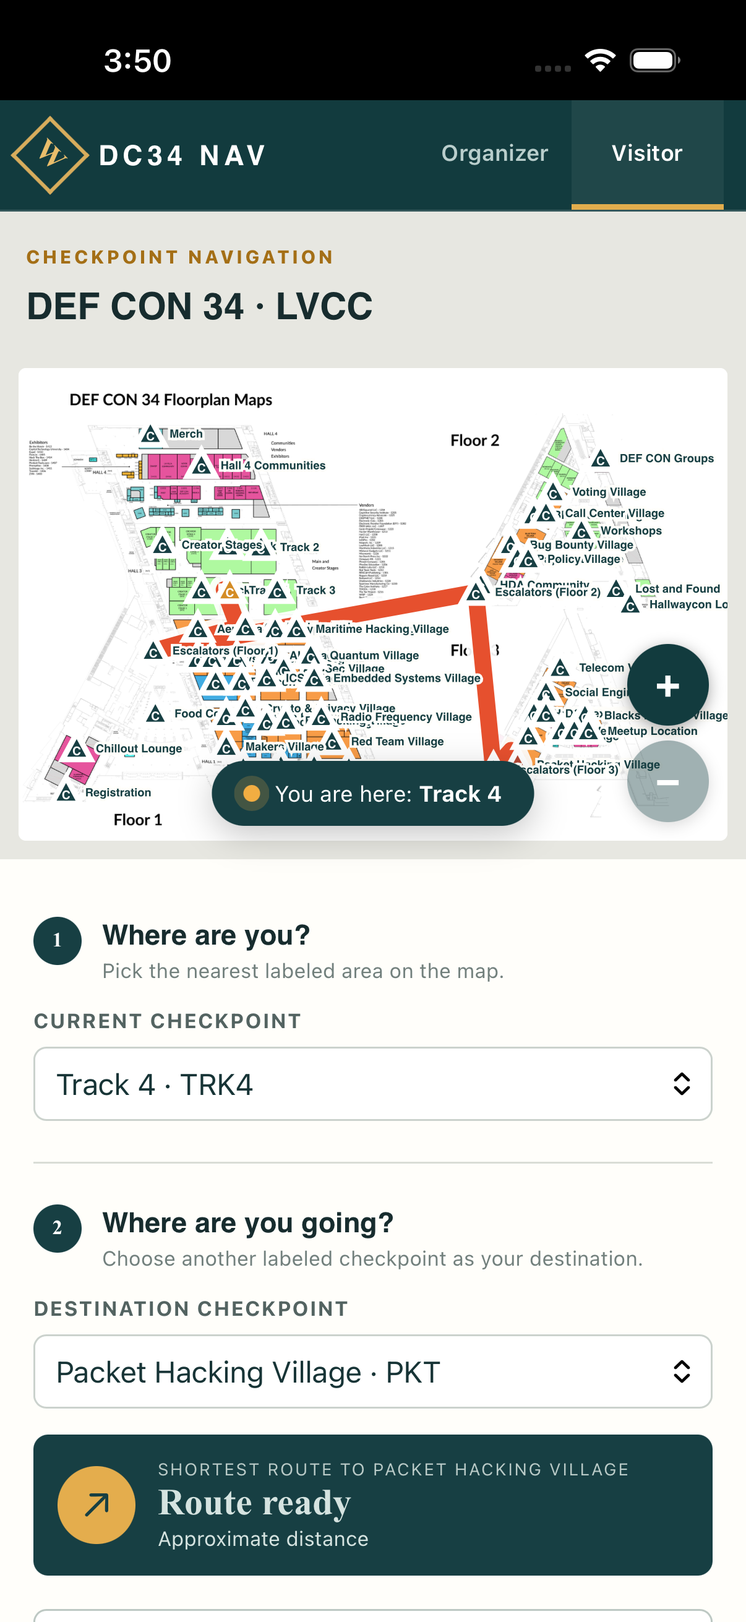
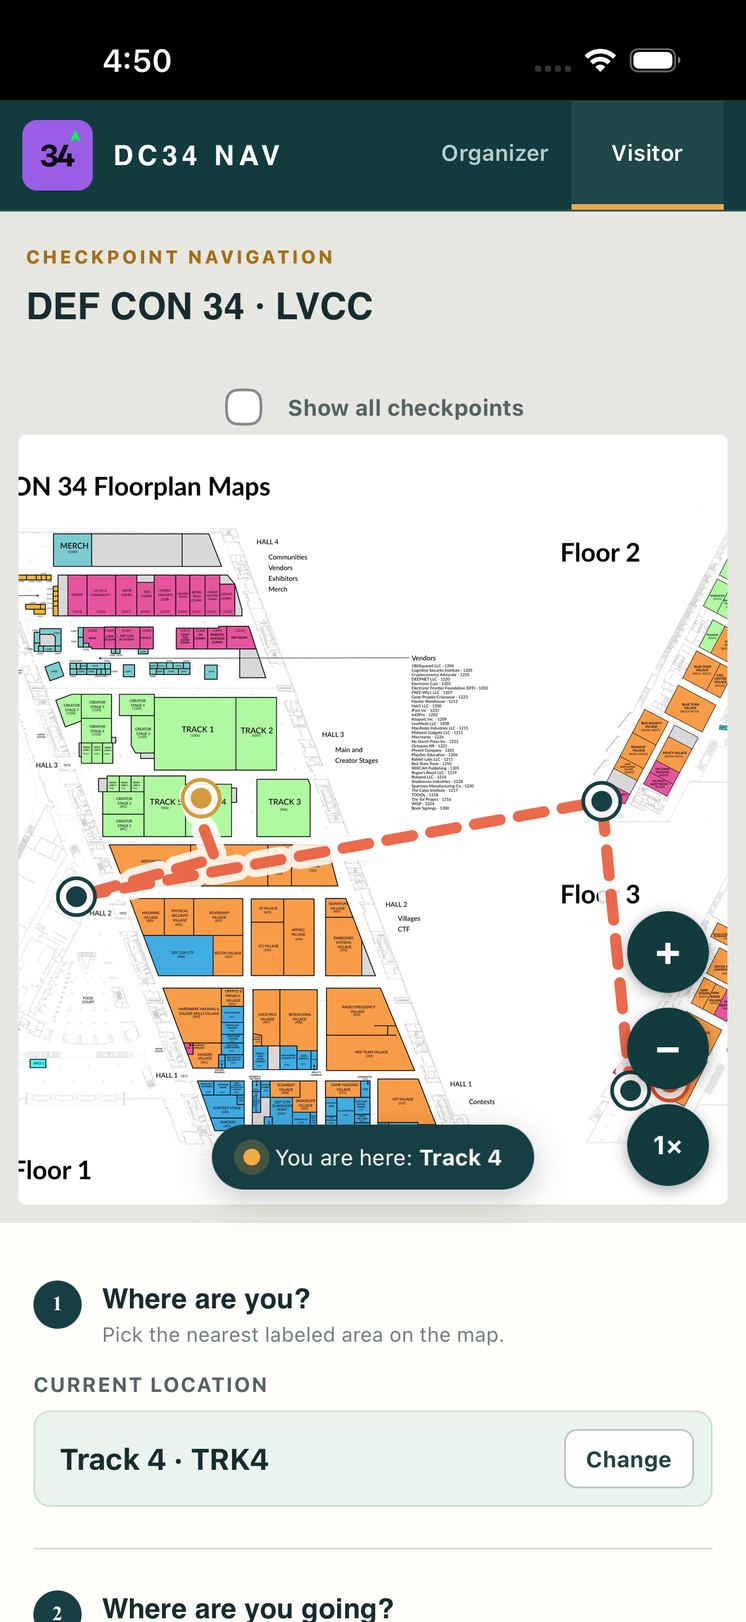
Phase F: clean map UX, aisle-following routes, step-by-step directions
User feedback: checkpoint triangles buried the poster and routes cut
through hall blocks. Visitor map now renders no markers by default —
only dot pins for you/destination/on-route escalators, with a show-all
toggle. 61-item pickers replaced by type-to-filter search. Route
auto-fits the viewport, draws dashed as directional guidance, and the
Floor 1 spine was re-traced from 300dpi poster crops to follow the real
white aisle bands. New src/defcon/directions.ts generates succinct
numbered walking steps (halls to cross, escalator changes); approximate
distance calibration (~0.1 m/px) lights up the minutes estimate.

diff --git a/src/components/Visitor.tsx b/src/components/Visitor.tsx
@@ -1,4 +1,5 @@
 import { lazy, Suspense, useCallback, useEffect, useMemo, useState } from 'react';
+import { buildDirections } from '../defcon/directions';
 import { buildDefconPack } from '../defcon/pack';
 import { createDemoPack } from '../demo';
 import { parseNavPack } from '../lib/navpack';
@@ -13,11 +14,30 @@ const WaypointScanner = lazy(() => import('./WaypointScanner'));
 
 interface Props { initialScannerIntent?: ScannerIntent; onLegacyScannerClose?: () => void }
 
+interface CheckpointOption { id: string; label: string; shortCode: string }
+function CheckpointSearch({ placeholder, options, valueId, disabled, onSelect }: { placeholder: string; options: CheckpointOption[]; valueId?: string; disabled?: boolean; onSelect: (id: string | undefined) => void }) {
+  const [query, setQuery] = useState('');
+  const [open, setOpen] = useState(false);
+  const selected = options.find((option) => option.id === valueId);
+  if (selected && !open) return <div className="cp-selected"><span>{selected.label} · {selected.shortCode}</span><button type="button" className="button" onClick={() => { setQuery(''); setOpen(true); }}>Change</button></div>;
+  const needle = query.trim().toLowerCase();
+  const matches = (needle ? options.filter((option) => `${option.label} ${option.shortCode}`.toLowerCase().includes(needle)) : options).slice(0, 8);
+  return <div className="cp-search">
+    <input type="search" placeholder={placeholder} value={query} disabled={disabled} autoFocus={open} onChange={(event) => setQuery(event.target.value)} onFocus={() => setOpen(true)} />
+    {open || query ? <div className="cp-search-list">
+      {matches.map((option) => <button type="button" key={option.id} onClick={() => { onSelect(option.id); setOpen(false); setQuery(''); }}>{option.label} <small>{option.shortCode}</small></button>)}
+      {matches.length === 0 ? <span className="cp-search-empty">No match — try fewer letters.</span> : null}
+      {selected ? <button type="button" className="cp-search-cancel" onClick={() => { setOpen(false); setQuery(''); }}>Keep {selected.shortCode}</button> : null}
+    </div> : null}
+  </div>;
+}
+
 export function Visitor({ initialScannerIntent, onLegacyScannerClose }: Props) {
   const [state, setState] = useState<VisitorState | null | undefined>(undefined);
   const [message, setMessage] = useState('');
   const [scannerIntent, setScannerIntent] = useState<ScannerIntent | null>(() => initialScannerIntent ?? null);
   const [defconLoading, setDefconLoading] = useState(false);
+  const [showAllCheckpoints, setShowAllCheckpoints] = useState(false);
   useEffect(() => {
     let current = true;
     void loadVisitor().then(async (saved) => {
@@ -56,6 +76,7 @@ export function Visitor({ initialScannerIntent, onLegacyScannerClose }: Props) {
   const targetCheckpoint = state?.pack.checkpoints.find((item) => item.id === state.targetCheckpointId && item.id !== state.checkpointId);
   const route = useMemo(() => state && checkpoint && targetCheckpoint ? shortestRoute(state.pack, checkpoint.routeNodeId, targetCheckpoint.routeNodeId) : undefined, [state, checkpoint, targetCheckpoint]);
   const readiness = useMemo(() => state ? analyzeNavPackReadiness(state.pack) : undefined, [state]);
+  const directions = useMemo(() => state && route && checkpoint && targetCheckpoint ? buildDirections(state.pack, route.nodeIds, checkpoint.id, targetCheckpoint.id) : [], [state, route, checkpoint, targetCheckpoint]);
   const scanner = scannerIntent ? <Suspense fallback={<div className="modal-backdrop"><div className="scanner-card"><p>Loading offline QR decoder…</p></div></div>}><WaypointScanner intent={scannerIntent} visitorState={state ?? null} onApply={applyVisitorState} onClose={closeScanner} /></Suspense> : null;
 
   if (state === undefined) return <main className="visitor-empty"><div className="welcome-card"><p>Loading offline event…</p></div>{scanner}</main>;
@@ -65,12 +86,14 @@ export function Visitor({ initialScannerIntent, onLegacyScannerClose }: Props) {
   const canChooseTarget = state.pack.checkpoints.length > 1;
   const targetOptions = destinationCheckpointOptions(state);
   const mapSelection = targetCheckpoint ? { type: 'checkpoint' as const, id: targetCheckpoint.id } : checkpoint ? { type: 'checkpoint' as const, id: checkpoint.id } : undefined;
+  const routeNodeIds = new Set(route?.nodeIds ?? []);
+  const visibleCheckpointIds = showAllCheckpoints ? ('all' as const) : new Set(state.pack.checkpoints.filter((item) => item.id === checkpoint?.id || item.id === targetCheckpoint?.id || routeNodeIds.has(item.routeNodeId)).map((item) => item.id));
   return <main className="visitor-layout">
-    <section className="visitor-map"><div className="mobile-event-title"><p className="eyebrow">{readiness?.mode === 'map-only' ? 'Map view' : 'Checkpoint navigation'}</p><h1>{state.pack.event.name}</h1></div><MapCanvas pack={state.pack} route={route?.points} selection={mapSelection} currentCheckpointId={checkpoint?.id} targetCheckpointId={targetCheckpoint?.id} />{checkpoint ? <div className="you-are-here"><span className="pulse-dot"/>You are here: <strong>{checkpoint.label}</strong></div> : null}</section>
+    <section className="visitor-map"><div className="mobile-event-title"><p className="eyebrow">{readiness?.mode === 'map-only' ? 'Map view' : 'Checkpoint navigation'}</p><h1>{state.pack.event.name}</h1></div><label className="map-show-all"><input type="checkbox" checked={showAllCheckpoints} onChange={(event) => setShowAllCheckpoints(event.target.checked)} /> Show all checkpoints</label><MapCanvas pack={state.pack} route={route?.points} selection={mapSelection} currentCheckpointId={checkpoint?.id} targetCheckpointId={targetCheckpoint?.id} visibleCheckpointIds={visibleCheckpointIds} markerStyle="minimal" fitPoints={route?.points} />{checkpoint ? <div className="you-are-here"><span className="pulse-dot"/>You are here: <strong>{checkpoint.label}</strong></div> : null}</section>
     <aside className="visitor-controls"><div><p className="eyebrow">{readiness?.mode === 'map-only' ? 'Map view' : 'Checkpoint navigation'}</p><h1>{state.pack.event.name}</h1></div>{message ? <div className="notice">{message}</div> : null}
       {readiness?.mode === 'map-only' ? <div className="visitor-capability-card"><p className="eyebrow">Map only</p><h2>Visual map guidance</h2><p>This package contains the floor plan without checkpoint positioning or calculated routes.</p></div> : readiness?.mode === 'partial-navigation' ? <div className="notice warning">Some checkpoints or routes are unavailable. The floor plan and available checkpoint markers can still be used for visual guidance.</div> : null}
-      {hasCheckpoints ? <><div className="visitor-step"><div className="step-number">1</div><div><h2>Where are you?</h2><p>Pick the nearest labeled area on the map.</p></div></div><label className="field"><span>Current checkpoint</span><select value={state.checkpointId ?? ''} onChange={(event) => { const checkpointId = event.target.value || undefined; void applyVisitorState(selectCurrentCheckpoint(state, checkpointId), checkpointId ? 'Current checkpoint updated.' : 'Current checkpoint cleared.'); }}><option value="">Choose your location…</option>{state.pack.checkpoints.map((item) => <option key={item.id} value={item.id}>{item.label} · {item.shortCode}</option>)}</select></label></> : <div className="visitor-capability-card"><p className="eyebrow">No checkpoint nodes</p><h2>Visual map guidance only</h2><p>The organizer did not include selectable checkpoint locations in this package.</p></div>}
-      {canChooseTarget ? <><div className="divider"/><div className="visitor-step"><div className="step-number">2</div><div><h2>Where are you going?</h2><p>Choose another labeled checkpoint as your destination.</p></div></div><label className="field"><span>Destination checkpoint</span><select disabled={!checkpoint} value={targetCheckpoint?.id ?? ''} onChange={(event) => { const targetCheckpointId = event.target.value || undefined; void applyVisitorState({ ...state, targetCheckpointId }, targetCheckpointId ? 'Destination checkpoint selected.' : 'Destination checkpoint cleared.'); }}><option value="">{checkpoint ? 'Choose destination…' : 'Choose your current checkpoint first'}</option>{targetOptions.map((item) => <option key={item.id} value={item.id}>{item.label} · {item.shortCode}</option>)}</select></label><div className={`visitor-route-card ${route ? 'active' : ''}`}>{checkpoint && targetCheckpoint ? route ? <><span className="route-icon">↗</span><div><small>Shortest route to {targetCheckpoint.label}</small><strong>{route.distanceMeters === null ? 'Route ready' : `${route.distanceMeters.toFixed(1)} metres`}</strong><span>{route.distanceMeters === null ? 'Approximate distance' : `About ${Math.max(1, Math.ceil(route.distanceMeters / 70))} minute walk`}</span></div></> : <div><strong>No calculated route</strong><span>{checkpoint.label} and {targetCheckpoint.label} are in disconnected route groups. Use their markers and the floor plan for visual guidance.</span></div> : <span>Choose your current checkpoint and a destination checkpoint to see a route.</span>}</div></> : hasCheckpoints ? <div className="visitor-capability-card single-checkpoint"><p className="eyebrow">One checkpoint available</p><h2>No route target yet</h2><p>This map can establish your location, but it needs at least two checkpoints for calculated navigation.</p></div> : null}
+      {hasCheckpoints ? <><div className="visitor-step"><div className="step-number">1</div><div><h2>Where are you?</h2><p>Pick the nearest labeled area on the map.</p></div></div><div className="field"><span>Current location</span><CheckpointSearch placeholder="Search — e.g. registration, track 1…" options={state.pack.checkpoints} valueId={state.checkpointId} onSelect={(checkpointId) => void applyVisitorState(selectCurrentCheckpoint(state, checkpointId), checkpointId ? 'Current checkpoint updated.' : 'Current checkpoint cleared.')} /></div></> : <div className="visitor-capability-card"><p className="eyebrow">No checkpoint nodes</p><h2>Visual map guidance only</h2><p>The organizer did not include selectable checkpoint locations in this package.</p></div>}
+      {canChooseTarget ? <><div className="divider"/><div className="visitor-step"><div className="step-number">2</div><div><h2>Where are you going?</h2><p>Choose another labeled checkpoint as your destination.</p></div></div><div className="field"><span>Destination</span><CheckpointSearch placeholder={checkpoint ? 'Search — e.g. ai village, packet…' : 'Pick your current location first'} options={targetOptions} valueId={targetCheckpoint?.id} disabled={!checkpoint} onSelect={(targetCheckpointId) => void applyVisitorState({ ...state, targetCheckpointId }, targetCheckpointId ? 'Destination checkpoint selected.' : 'Destination checkpoint cleared.')} /></div><div className={`visitor-route-card ${route ? 'active' : ''}`}>{checkpoint && targetCheckpoint ? route ? <><span className="route-icon">↗</span><div><small>Shortest route to {targetCheckpoint.label}</small><strong>{route.distanceMeters === null ? 'Route ready' : `${route.distanceMeters.toFixed(1)} metres`}</strong><span>{route.distanceMeters === null ? 'Approximate distance' : `About ${Math.max(1, Math.ceil(route.distanceMeters / 70))} minute walk`}</span></div></> : <div><strong>No calculated route</strong><span>{checkpoint.label} and {targetCheckpoint.label} are in disconnected route groups. Use their markers and the floor plan for visual guidance.</span></div> : <span>Choose your current checkpoint and a destination checkpoint to see a route.</span>}</div>{directions.length > 0 ? <ol className="route-steps">{directions.map((step, index) => <li key={index}>{step}</li>)}</ol> : null}</> : hasCheckpoints ? <div className="visitor-capability-card single-checkpoint"><p className="eyebrow">One checkpoint available</p><h2>No route target yet</h2><p>This map can establish your location, but it needs at least two checkpoints for calculated navigation.</p></div> : null}
       <div className="visitor-footer"><button className="button danger-text full" onClick={() => void exitLocation()}>Exit Location</button></div>
     </aside>{scanner}
   </main>;

diff --git a/src/components/MapCanvas.tsx b/src/components/MapCanvas.tsx
@@ -1,4 +1,4 @@
-import { useRef, useState } from 'react';
+import { useEffect, useRef, useState } from 'react';
 import type { EditorTool, NavPack, Point, Selection } from '../types';
 
 interface Props {
@@ -15,9 +15,15 @@ interface Props {
   onNodeActivate?: (id: string) => void;
   onObjectSelect?: (selection: NonNullable<Selection>) => void;
   onMoveNode?: (id: string, point: Point) => void;
+  /** 'all' (default) renders every checkpoint; a Set renders only those ids. */
+  visibleCheckpointIds?: 'all' | Set<string>;
+  /** 'minimal' renders checkpoints as small unlabeled dot pins (the poster's own text labels the areas). */
+  markerStyle?: 'full' | 'minimal';
+  /** When set, the viewport zooms and scrolls to frame these normalized points. */
+  fitPoints?: Point[];
 }
 
-export function MapCanvas({ pack, activeTool = 'select', selection, route, calibrationPoints = [], interactive = false, showGraph = false, currentCheckpointId, targetCheckpointId, onMapClick, onNodeActivate, onObjectSelect, onMoveNode }: Props) {
+export function MapCanvas({ pack, activeTool = 'select', selection, route, calibrationPoints = [], interactive = false, showGraph = false, currentCheckpointId, targetCheckpointId, onMapClick, onNodeActivate, onObjectSelect, onMoveNode, visibleCheckpointIds = 'all', markerStyle = 'full', fitPoints }: Props) {
   const dragging = useRef<string | null>(null);
   const viewport = useRef<HTMLDivElement>(null);
   const [zoom, setZoom] = useState(1);
@@ -37,6 +43,25 @@ export function MapCanvas({ pack, activeTool = 'select', selection, route, calib
     const rect = event.currentTarget.getBoundingClientRect();
     return { x: Math.max(0, Math.min(1, (event.clientX - rect.left) / rect.width)), y: Math.max(0, Math.min(1, (event.clientY - rect.top) / rect.height)) };
   };
+  const fitKey = fitPoints?.map((point) => `${point.x.toFixed(4)},${point.y.toFixed(4)}`).join(';') ?? '';
+  useEffect(() => {
+    const element = viewport.current;
+    if (!fitKey || !element || !fitPoints?.length) return;
+    const xs = fitPoints.map((point) => point.x);
+    const ys = fitPoints.map((point) => point.y);
+    const pad = 0.05;
+    const minX = Math.max(0, Math.min(...xs) - pad), maxX = Math.min(1, Math.max(...xs) + pad);
+    const minY = Math.max(0, Math.min(...ys) - pad), maxY = Math.min(1, Math.max(...ys) + pad);
+    const baseWidth = element.clientWidth;
+    const baseHeight = baseWidth * (pack.floor.imageHeight / Math.max(1, pack.floor.imageWidth));
+    const next = Math.max(1, Math.min(6, Math.min(element.clientWidth / Math.max(0.02, maxX - minX) / baseWidth, element.clientHeight / Math.max(0.02, maxY - minY) / baseHeight)));
+    setZoom(next);
+    requestAnimationFrame(() => {
+      element.scrollLeft = ((minX + maxX) / 2) * baseWidth * next - element.clientWidth / 2;
+      element.scrollTop = ((minY + maxY) / 2) * baseHeight * next - element.clientHeight / 2;
+    });
+    // eslint-disable-next-line react-hooks/exhaustive-deps
+  }, [fitKey]);
   const nodeMap = new Map(pack.nodes.map((node) => [node.id, node]));
   const checkpointNodeIds = new Set(pack.checkpoints.map((checkpoint) => checkpoint.routeNodeId));
   const imageWidth = Math.max(1, pack.floor.imageWidth);
@@ -61,14 +86,16 @@ export function MapCanvas({ pack, activeTool = 'select', selection, route, calib
       {routeText ? <polyline className="active-route halo" points={routeText} vectorEffect="non-scaling-stroke" /> : null}
       {routeText ? <polyline className="active-route" points={routeText} vectorEffect="non-scaling-stroke" /> : null}
       {(showGraph || interactive) && pack.nodes.filter((node) => !checkpointNodeIds.has(node.id)).map((node) => <circle key={node.id} className={`route-node ${selection?.type === 'node' && selection.id === node.id ? 'selected' : ''}`} cx={toX(node.x)} cy={toY(node.y)} r={11 * markerScale} vectorEffect="non-scaling-stroke" onPointerDown={(event) => { event.stopPropagation(); if (activeTool === 'select' && onMoveNode) { dragging.current = node.id; event.currentTarget.setPointerCapture(event.pointerId); } }} onClick={(event) => { event.stopPropagation(); onNodeActivate?.(node.id); }}><title>Intermediate route point</title></circle>)}
-      {pack.checkpoints.map((item) => {
+      {pack.checkpoints.filter((item) => visibleCheckpointIds === 'all' || visibleCheckpointIds.has(item.id)).map((item) => {
         const position = nodeMap.get(item.routeNodeId) ?? item;
         const selected = (selection?.type === 'checkpoint' && selection.id === item.id) || (selection?.type === 'node' && selection.id === item.routeNodeId);
         const role = item.id === currentCheckpointId ? ' current' : item.id === targetCheckpointId ? ' target' : '';
         return <g key={item.id} className={`map-marker checkpoint ${selected ? 'selected' : ''}${role}`} transform={`translate(${toX(position.x)} ${toY(position.y)}) scale(${markerScale})`}
           onPointerDown={(event) => { event.stopPropagation(); if (activeTool === 'select' && onMoveNode) { dragging.current = item.routeNodeId; event.currentTarget.setPointerCapture(event.pointerId); } }}
           onClick={(event) => { event.stopPropagation(); if (activeTool === 'routes') onNodeActivate?.(item.routeNodeId); else onObjectSelect?.({ type: 'checkpoint', id: item.id }); }}>
-          <path d="M0-22 20 15H-20Z" vectorEffect="non-scaling-stroke"/><text className="checkpoint-symbol" y="9" textAnchor="middle">C</text><text className="checkpoint-label" x="27" y="5" textAnchor="start">{item.label}</text><title>{`${item.label} checkpoint`}</title>
+          {markerStyle === 'minimal'
+            ? <><circle className="dot-pin-ring" r="16" vectorEffect="non-scaling-stroke"/><circle className="dot-pin" r="9"/><title>{item.label}</title></>
+            : <><path d="M0-22 20 15H-20Z" vectorEffect="non-scaling-stroke"/><text className="checkpoint-symbol" y="9" textAnchor="middle">C</text><text className="checkpoint-label" x="27" y="5" textAnchor="start">{item.label}</text><title>{`${item.label} checkpoint`}</title></>}
         </g>;
       })}
       {calibrationPoints.map((point, index) => <g key={index} className="calibration-point" transform={`translate(${toX(point.x)} ${toY(point.y)}) scale(${markerScale})`}><circle r="18" vectorEffect="non-scaling-stroke"/><text y="7" textAnchor="middle">{index + 1}</text></g>)}

diff --git a/src/styles.css b/src/styles.css
@@ -81,8 +81,8 @@ input:focus,select:focus { border-color:#24747a; box-shadow:0 0 0 3px rgba(36,11
 .route-edge:hover,.route-edge.selected { stroke:#e6912d; stroke-width:7; opacity:1; }
 .route-node { fill:#fff; stroke:#1d5c61; stroke-width:3; cursor:pointer; }
 .route-node:hover,.route-node.selected { fill:#edb652; stroke:#7c5316; r:15px; }
-.active-route.halo { fill:none; stroke:white; stroke-width:16; stroke-linecap:round; stroke-linejoin:round; opacity:.92; }
-.active-route { fill:none; stroke:#e6502e; stroke-width:9; stroke-linecap:round; stroke-linejoin:round; }
+.active-route.halo { fill:none; stroke:white; stroke-width:14; stroke-linecap:round; stroke-linejoin:round; opacity:.85; }
+.active-route { fill:none; stroke:#e6502e; stroke-width:6; stroke-linecap:round; stroke-linejoin:round; stroke-dasharray:14 10; opacity:.85; }
 .map-marker { cursor:pointer; }
 .map-marker.checkpoint path { fill:#173f43; stroke:white; stroke-width:3; }
 .map-marker.checkpoint .checkpoint-symbol { fill:#fff; font:bold 17px sans-serif; pointer-events:none; }
@@ -181,3 +181,26 @@ input:focus,select:focus { border-color:#24747a; box-shadow:0 0 0 3px rgba(36,11
 .map-zoom-controls .zoom-reset { font-size:14px; }
 @media (max-width:680px) { .map-shell { margin:10px; width:calc(100% - 20px); } .visitor-map .map-shell { margin:0; width:100%; } }
 .brand-icon { width:38px; height:38px; border-radius:8px; display:block; }
+
+/* Phase F: search pickers + marker toggle */
+.cp-search { position:relative; }
+.cp-search input { width:100%; }
+.cp-search-list { position:absolute; z-index:20; left:0; right:0; top:calc(100% + 4px); background:white; border:1px solid #cbd2cd; border-radius:9px; box-shadow:0 10px 28px rgba(0,0,0,.18); overflow:hidden; }
+.cp-search-list button { display:flex; justify-content:space-between; align-items:center; width:100%; border:0; background:none; text-align:left; padding:12px 14px; font-weight:600; cursor:pointer; border-bottom:1px solid #eef0ec; }
+.cp-search-list button:hover { background:#f2f7f4; }
+.cp-search-list button small { color:#8a9793; font-weight:800; letter-spacing:.06em; }
+.cp-search-empty { display:block; padding:12px 14px; color:#77837f; font-size:12px; }
+.cp-search-cancel { color:#24595b !important; font-size:12px; }
+.cp-selected { display:flex; align-items:center; justify-content:space-between; gap:10px; background:#eaf3ed; border:1px solid #cfe2d6; border-radius:9px; padding:9px 9px 9px 13px; font-weight:700; }
+.cp-selected .button { min-height:32px; padding:5px 11px; }
+.map-show-all { display:flex; align-items:center; gap:8px; justify-content:center; padding:8px 0 2px; font-size:12px; font-weight:700; color:#536361; cursor:pointer; }
+.map-show-all input { width:auto; min-height:0; }
+.dot-pin-ring { fill:rgba(255,255,255,.9); stroke:#173f43; stroke-width:2; }
+.dot-pin { fill:#173f43; }
+.map-marker.current .dot-pin { fill:#d29b3b; }
+.map-marker.current .dot-pin-ring { stroke:#d29b3b; }
+.map-marker.target .dot-pin { fill:#e6502e; }
+.map-marker.target .dot-pin-ring { stroke:#e6502e; }
+.route-steps { margin:10px 0 0; padding:14px 16px 14px 34px; background:#fffefa; border:1px solid var(--line); border-radius:10px; font-size:13px; line-height:1.5; }
+.route-steps li { margin:6px 0; }
+.route-steps li::marker { color:#a46f16; font-weight:800; }

diff --git a/src/defcon/directions.ts b/src/defcon/directions.ts
@@ -1,0 +1,68 @@
+import type { NavPack, Point } from '../types';
+
+// Which floor a point sits on, from the poster layout: Floors 2/3 occupy the
+// right ~45% of the canvas (Floor 2 top, Floor 3 bottom); Floor 1 is the rest.
+function floorOf(point: Point): 1 | 2 | 3 {
+  if (point.x > 0.56) return point.y < 0.52 ? 2 : 3;
+  return 1;
+}
+
+// Floor 1 hall bands by poster y (see docs/research/lvcc-maps.md).
+function hallOf(point: Point): string | null {
+  if (floorOf(point) !== 1) return null;
+  if (point.x < 0.205) return null; // west atrium/concourse, not inside a hall block
+  if (point.y < 0.30) return 'Hall 4';
+  if (point.y < 0.505) return 'Hall 3 (Tracks)';
+  if (point.y < 0.68) return 'Hall 2 (Villages)';
+  return 'Hall 1 (Contests)';
+}
+
+/** Succinct step-by-step walking directions for a computed route. */
+export function buildDirections(pack: NavPack, routeNodeIds: string[], fromCheckpointId: string, toCheckpointId: string): string[] {
+  const nodes = new Map(pack.nodes.map((node) => [node.id, node]));
+  const byRouteNode = new Map(pack.checkpoints.map((item) => [item.routeNodeId, item]));
+  const from = pack.checkpoints.find((item) => item.id === fromCheckpointId);
+  const to = pack.checkpoints.find((item) => item.id === toCheckpointId);
+  if (!from || !to || routeNodeIds.length < 2) return [];
+
+  const points = routeNodeIds.map((id) => nodes.get(id)).filter((point): point is NonNullable<typeof point> => Boolean(point));
+  const steps: string[] = [];
+  const startFloor = floorOf(points[0]);
+  const endFloor = floorOf(points[points.length - 1]);
+  steps.push(`Start at ${from.label}${startFloor !== endFloor ? ` (Floor ${startFloor})` : ''}.`);
+
+  let index = 0;
+  while (index < points.length - 1) {
+    const floor = floorOf(points[index]);
+    let end = index;
+    while (end < points.length - 1 && floorOf(points[end + 1]) === floor) end++;
+    const segment = points.slice(index, end + 1);
+    const isLast = end >= points.length - 1;
+
+    if (!isLast) {
+      // Segment ends at an escalator landing — name it if it's a checkpoint.
+      // A single-node segment means we're already standing on the landing.
+      if (segment.length > 1) {
+        const landing = byRouteNode.get(routeNodeIds[end]);
+        const halls = [...new Set(segment.map(hallOf).filter(Boolean))];
+        if (halls.length > 1) steps.push(`Walk through ${halls.join(', then ')} to ${landing?.label ?? 'the escalators'}.`);
+        else steps.push(`Walk to ${landing?.label ?? 'the escalators'}.`);
+      }
+      const nextFloor = floorOf(points[end + 1]);
+      steps.push(`Take the escalators ${nextFloor > floor ? 'up' : 'down'} to Floor ${nextFloor}.`);
+      index = end + 1;
+      continue;
+    }
+
+    // Final segment → destination.
+    const halls = [...new Set(segment.map(hallOf).filter(Boolean))];
+    const startHall = hallOf(segment[0]);
+    const passed = halls.filter((hall) => hall !== startHall);
+    if (passed.length > 0) steps.push(`Walk through ${passed.join(', then ')} to ${to.label}.`);
+    else steps.push(`Follow the corridor to ${to.label}.`);
+    index = end + 1;
+  }
+
+  steps.push(`You've arrived — look for ${to.label} (${to.shortCode}).`);
+  return steps;
+}

diff --git a/src/defcon/data.ts b/src/defcon/data.ts
@@ -10,12 +10,16 @@ type Floor = 1 | 2 | 3;
 // --- Corridor spine nodes ---------------------------------------------------
 
 const spineNodes: Record<Floor, RouteNode[]> = {
-  // Floor 1 — wedge shape, main corridor tilts right going down; f1-atrium doubles as the Floor 1 escalator landing.
+  // Floor 1 — wedge shape. Spine traced from the poster's actual white aisle bands
+  // (300dpi crop check, 2026-08-04): a west-edge corridor left of the hall blocks,
+  // plus horizontal aisles between the rows; f1-a*e nodes are the aisles' east ends.
+  // f1-atrium doubles as the Floor 1 escalator landing.
   1: [
-    { id: 'f1-s1', x: .20, y: .15 }, { id: 'f1-s2', x: .22, y: .22 }, { id: 'f1-s3', x: .26, y: .38 },
-    { id: 'f1-s4', x: .29, y: .47 }, { id: 'f1-s5', x: .31, y: .55 }, { id: 'f1-s6', x: .33, y: .62 },
-    { id: 'f1-s7', x: .35, y: .665 }, { id: 'f1-s8', x: .37, y: .74 }, { id: 'f1-s9', x: .39, y: .80 },
-    { id: 'f1-s10', x: .41, y: .85 },
+    { id: 'f1-s1', x: .20, y: .15 }, { id: 'f1-s2', x: .22, y: .22 },
+    { id: 'f1-s3', x: .205, y: .437 }, { id: 'f1-s4', x: .215, y: .527 }, { id: 'f1-s5', x: .225, y: .592 },
+    { id: 'f1-s6', x: .26, y: .710 }, { id: 'f1-s7', x: .29, y: .832 },
+    { id: 'f1-a1e', x: .39, y: .44 }, { id: 'f1-a2e', x: .42, y: .53 }, { id: 'f1-a3e', x: .44, y: .59 },
+    { id: 'f1-a4e', x: .46, y: .71 }, { id: 'f1-a5e', x: .48, y: .832 },
     { id: 'f1-atrium', x: .19, y: .60 },
   ],
   // Floor 2 — A-shape; f2-entry is the escalator landing, left leg climbs to the apex, right leg descends.
@@ -37,7 +41,8 @@ const spineNodes: Record<Floor, RouteNode[]> = {
 
 // Chains of node ids joined by consecutive edges. The final chain (the escalators) holds the ONLY cross-floor edges.
 const spineChains: string[][] = [
-  ['f1-s1', 'f1-s2', 'f1-s3', 'f1-s4', 'f1-s5', 'f1-s6', 'f1-s7', 'f1-s8', 'f1-s9', 'f1-s10'],
+  ['f1-s1', 'f1-s2', 'f1-s3', 'f1-s4', 'f1-s5', 'f1-s6', 'f1-s7'],
+  ['f1-s3', 'f1-a1e'], ['f1-s4', 'f1-a2e'], ['f1-s5', 'f1-a3e'], ['f1-s6', 'f1-a4e'], ['f1-s7', 'f1-a5e'],
   ['f1-atrium', 'f1-s5'],
   ['f2-entry', 'f2-l1', 'f2-l2', 'f2-l3', 'f2-l4', 'f2-l5', 'f2-l6', 'f2-r1', 'f2-r2', 'f2-r3', 'f2-r4'],
   ['f2-l4', 'f2-r2'], // crossbar between the legs near Workshops
@@ -51,7 +56,7 @@ interface Poi { code: string; label: string; x: number; y: number; floor: Floor;
 
 const pois: Poi[] = [
   // Floor 1 — west chain: Registration → Chillout → Food Court → Atrium, plus Registration ↔ south spine.
-  { code: 'REG', label: 'Registration', x: .067, y: .90, floor: 1, attachTo: ['poi-chill', 'f1-s10'] },
+  { code: 'REG', label: 'Registration', x: .067, y: .90, floor: 1, attachTo: ['poi-chill', 'f1-s7'] },
   { code: 'CHILL', label: 'Chillout Lounge', x: .082, y: .807, floor: 1, attachTo: ['poi-food'] },
   { code: 'FOOD', label: 'Food Court', x: .193, y: .733, floor: 1, attachTo: ['f1-atrium'] },
   { code: 'MERCH', label: 'Merch', x: .186, y: .141, floor: 1 },

diff --git a/src/defcon/pack.ts b/src/defcon/pack.ts
@@ -5,7 +5,10 @@ export function assemblePack(imageDataUrl: string): NavPack {
   return {
     version: 1,
     event: { id: 'defcon34', name: 'DEF CON 34 · LVCC', createdAt: '2026-08-04T00:00:00.000Z' },
-    floor: { id: 'lvcc-all', name: 'LVCC West Hall (Floors 1–3)', imageDataUrl, imageWidth: MAP_WIDTH, imageHeight: MAP_HEIGHT },
+    // Calibration is approximate: LVCC West Hall's Floor 1 drawing spans ~180m
+    // over ~1800px of the 3600px poster (~0.1 m/px). Floors 2–3 are drawn at a
+    // slightly different scale, so distances are estimates, not measurements.
+    floor: { id: 'lvcc-all', name: 'LVCC West Hall (Floors 1–3)', imageDataUrl, imageWidth: MAP_WIDTH, imageHeight: MAP_HEIGHT, calibration: { pointA: { x: 0.05, y: 0.55 }, pointB: { x: 0.55, y: 0.55 }, distanceMeters: 180, metersPerImagePixel: 0.1 } },
     nodes: defconNodes,
     edges: defconEdges,
     destinations: [],

diff --git a/README.md b/README.md
@@ -7,8 +7,8 @@ Offline indoor navigation for **DEF CON 34** at the Las Vegas Convention Center 
 Built on [**Waypoint**](https://github.com/Pizzawookiee/Waypoint) (see Credits).
 
 <p align="center">
-  <img src="docs/screenshots/route-overview.png" width="45%" alt="Cross-floor route from Track 4 to Packet Hacking Village on the DEF CON 34 LVCC map" />
-  <img src="docs/screenshots/route-zoomed.png" width="45%" alt="Zoomed map view showing readable booth-level detail and the route line" />
+  <img src="docs/screenshots/route-overview.png" width="45%" alt="Clean map with dot pins and a dashed cross-floor route from Track 4 to Packet Hacking Village" />
+  <img src="docs/screenshots/route-zoomed.png" width="45%" alt="Step-by-step walking directions for the selected route" />
 </p>
 
 ## How to use
@@ -22,15 +22,17 @@ Built on [**Waypoint**](https://github.com/Pizzawookiee/Waypoint) (see Credits).
 
 ### Reading the map
 
+The map stays clean — the poster's own printed names label every area. Markers only appear for your route:
+
 | Symbol | Meaning |
 |---|---|
-| ▲ dark triangle with **C** | A **checkpoint** — a labeled place you can select as your location or destination (every village, track, stage, and service is one) |
-| ▲ **gold** triangle | **You are here** — your currently selected checkpoint |
-| ▲ highlighted triangle | Your **destination** |
-| **Orange line** | Your shortest walking route |
-| *Escalators (Floor 1/2/3)* checkpoints | The floor connectors — the only places routes jump between the three floor drawings |
+| **Gold dot** | You are here |
+| **Red dot** | Your destination |
+| **Dark dots** | Escalators your route passes through |
+| **Dashed orange line** | Your route — *directional guidance*, not an exact traced walkway: follow its direction along the open aisles and signage |
+| ☑ Show all checkpoints | Optional toggle to display every selectable place |
 
-The "C" symbol comes from the underlying Waypoint engine, where checkpoints double as printed QR signs. DEF CON has no such signage, so in this app they are simply the selectable places on the map — QR scanning may return as a future feature.
+Below the route card, a numbered **step list** gives succinct walking directions (which halls to cross, where to take the escalators).
 
 Everything is stored on-device; the map keeps working in the deepest Wi-Fi dead zone in Hall 3.
 

diff --git a/docs/plan/plan.md b/docs/plan/plan.md
@@ -38,6 +38,9 @@ Phases B and C have disjoint file ownership and a declared interface → can run
 ## Phase E — native mobile wrap (added 2026-08-04 via Stage 7 refinement)
 Capacitor wraps the built web app for iOS + Android; web assets bundle into the native app (offline without SW). Steps: install @capacitor/{core,cli,ios,android} → `cap init` (appId com.qerberos.dc34nav, webDir dist) → `npm run build` → `cap add ios` / `cap add android` → iOS: NSCameraUsageDescription in Info.plist, verify in Simulator; Android: project generated locally, built on the Ryzen box (Android SDK lives there). Device installs: iOS via Xcode signing (user's Apple account), Android via sideloaded APK. Verify: app boots in iOS Simulator, DC34 map loads, route renders — all with network disabled.
 
+## Phase F — clean map UX (added 2026-08-04, user feedback: "C marks block the map")
+Marker soup made the poster unreadable — the Stage-4 review predicted this (finding #8). Fix: visitor map renders NO checkpoint markers by default; only the current location, the destination, and on-route escalator markers appear once chosen, with an optional "show all" toggle. Destination/location selection moves from 61-item native pickers to type-to-filter search lists. On route selection the map auto-zooms to the route's bounding box. Organizer mode keeps full marker rendering. Files: MapCanvas.tsx (marker filter prop + fit-to-route), Visitor.tsx (search UI), styles.css.
+
 ## Review log (Stage 4, 2026-08-04)
 Cold review found 2 blockers (jpg missing from PWA precache glob + no owner for vite.config.ts; pack.test.ts unfetchable in node vitest) and minors (shortCodes, dead destinations, dims-as-comment, base path, C-branch typecheck, label density, stale-state reachability). All folded into the phases above.
 
